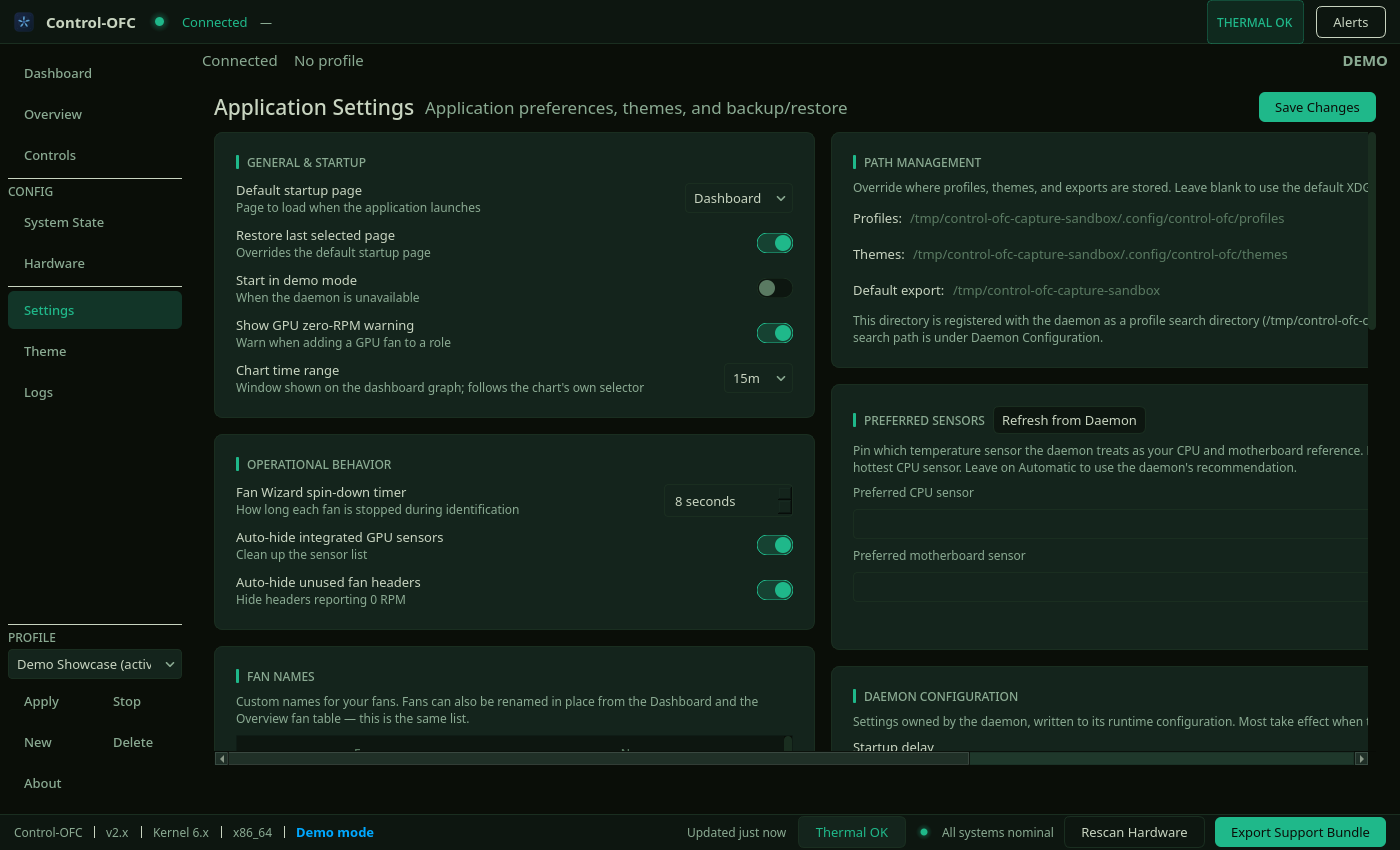
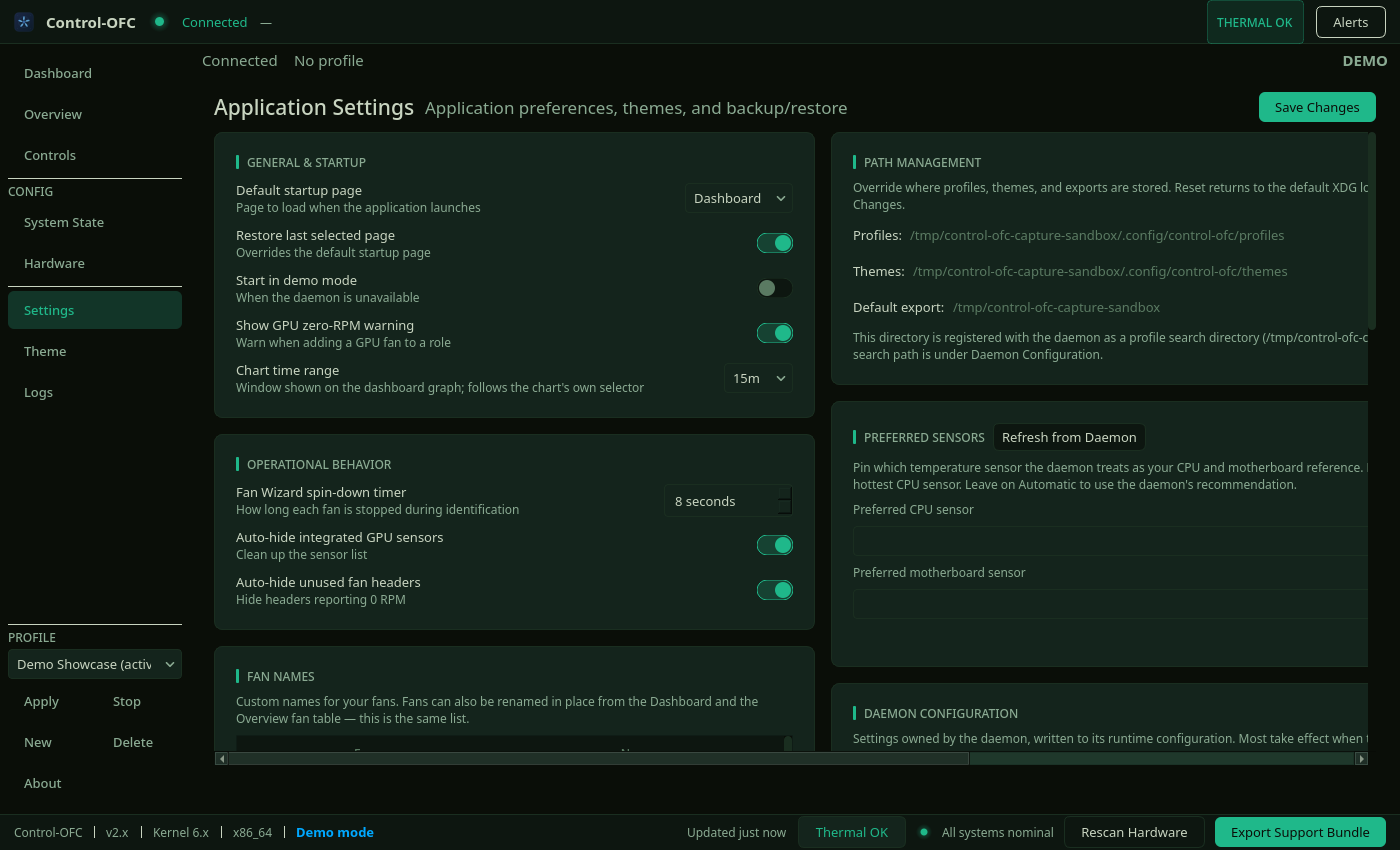
release: control-ofc-gui v4.1.0
The FFA/GSA fix batch. The trailers derive patch; the user chose a minor
version for this release, in both repos. Bumps pyproject.toml, the PKGBUILD
pkgver and the README release line, folds [Unreleased] into [4.1.0], says
"daemon ≥ 4.1.0" in docs/08 where it said "daemon > 4.0.0", and recaptures
the dashboard (sample-time chart) and settings screenshots.

diff --git a/docs/08_API_Integration_Contract.md b/docs/08_API_Integration_Contract.md
@@ -3389,7 +3389,7 @@ same id ever diverge, activation applies the **local** copy — not necessarily 
 - `PUT /profiles/{id}` — create-or-replace stored desired-state → **200 OK** (no hot-reload —
   re-activate to apply)
 - `DELETE /profiles/{id}` — `409 profile_in_use` if it is the active profile
-- **Reads are confined to the search directories (daemon > 4.0.0, FFA-a/FFA-b).** `GET /profiles`,
+- **Reads are confined to the search directories (daemon ≥ 4.1.0, FFA-a/FFA-b).** `GET /profiles`,
   `GET /profiles/{id}` and activation treat a profile file as **absent** (`404`, not listed) when it is
   a symlink, a FIFO or anything else but a regular file, or when its owner is not its directory's owner.
   They skip, with a daemon-side warning, a search directory whose real path is not the path registered
@@ -3402,7 +3402,7 @@ same id ever diverge, activation applies the **local** copy — not necessarily 
   (the store, the presets) are never skipped, so a profile found by id is never a user's same-id file read
   past a busy store: a request that cannot read them in time answers the retryable `500`. A listing that
   runs out of time in a user's directory answers the profiles found so far (`200`, logged).
-- **Store bounds (daemon > 4.0.0, FFA-j).** `POST`/`PUT` store the document compact. A document whose
+- **Store bounds (daemon ≥ 4.1.0, FFA-j).** `POST`/`PUT` store the document compact. A document whose
   stored form would exceed 4 MiB is `400 validation_error` (re-serialising can lengthen numbers, so this can
   fire for a body under the 4 MiB request limit); a **new** id once the store holds 256 profiles is
   `400 validation_error` (replacing an existing id still works), and so is a write that would leave the
@@ -3446,7 +3446,7 @@ same id ever diverge, activation applies the **local** copy — not necessarily 
     parsed, or a profile that fails validation (`error.details.field_violations`, as for
     `POST /profiles`); a retryable `500 internal_error` when the read, or resolving a
     `profile_path` whose directory is not a registered entry as written, did not finish in
-    time (daemon > 4.0.0). On any error the previously active profile keeps running.
+    time (daemon ≥ 4.1.0). On any error the previously active profile keeps running.
   - **Saving the new state is best-effort.** If writing `daemon_state.json` fails, the
     daemon logs a warning and still answers `200`: the profile is active now, but a
     restart brings back the previous one.
@@ -3809,9 +3809,9 @@ Two things distinguish the cooldown 409 from the single-flight 409, and a client
   (§ OpenFan firmware update).
 - 409 `session_full` (source: `"validation"`, retryable: false, daemon ≥ 2.56.2) — `POST /validation/session/event` or `/measurement` while the recording session already holds its cap of that kind (4096 events, 512 measurements). Nothing was appended; `details.limit` is the cap. A new session is the only way to record more (DEC-426, `DC-m`).
 - 409 `stale_fencing_token` (source: `"validation"`, retryable: false) — override renew/release (DEC-163) bearing a superseded `override_token`; a newer override has been issued for that control, so the stale holder cannot re-pin (fencing)
-- 500 `internal_error` (source: `"internal"`, retryable: true) — among other causes, a profile read on `GET /profiles`, `GET /profiles/{id}`, `POST /profile/activate` or `POST /config/profile-search-dirs` that did not finish within 2 s (daemon > 4.0.0, FFA-b)
+- 500 `internal_error` (source: `"internal"`, retryable: true) — among other causes, a profile read on `GET /profiles`, `GET /profiles/{id}`, `POST /profile/activate` or `POST /config/profile-search-dirs` that did not finish within 2 s (daemon ≥ 4.1.0, FFA-b)
 - 503 `hardware_unavailable` (source: `"hardware"`, retryable: true). With `details.reason:
-  "hwmon_controller_busy"` (daemon > 4.0.0, FFA-h): the motherboard fan controller stayed locked
+  "hwmon_controller_busy"` (daemon ≥ 4.1.0, FFA-h): the motherboard fan controller stayed locked
   for 2 s by a write that has not returned (DEC-455). Returned by `POST /hwmon/{id}/verify`,
   `/characterize`, `/discover-control-path`, `/stall-probe` — before anything is written or
   claimed — and `GET /diagnostics/preflight`; retry later. Requests that only read header facts
@@ -4215,8 +4215,8 @@ The profile **curve schema is v7** (GUI `PROFILE_SCHEMA_VERSION` / daemon `defau
     - any edit whose result would be an **empty** search path — `activate_profile` resolves against this list, so emptying it is an unrecoverable soft-lock reachable from an unprivileged call;
     - any edit whose result does not leave the daemon's **profile store of record** as the **first** entry. The store of record (DEC-160) is *defined* as the first search dir, and it is the write target for profile create and delete, so displacing it would silently redirect every profile write for the rest of the daemon's process life. Note this is a rule about **position**, not membership: `{"add": [store], "remove": [store]}` removes it from index 0 and re-appends it at the end, which leaves it present and displaced — and is refused. A client that wants to show why Remove is unavailable can apply the same rule locally (the GUI does).
   - **Peer-uid confined (daemon ≥ 2.9.0, DEC-205):** a non-root client may only `add` directories that exist and canonicalize to a path within its **own home directory** (resolved from the socket peer's `SO_PEERCRED` uid); root / CLI callers are exempt. An out-of-home dir, a nonexistent/unreadable dir, or a caller whose uid/home cannot be resolved is `400 validation_error`. Older daemons (< 2.9.0) accept any absolute dir. `remove` is confined the same way but by a predicate that does **not** require the directory to still exist: it accepts the path's raw form, falling back to its canonical form when that resolves. Both legs are needed. Raw, because a stale entry worth pruning is very often one that is already gone, so requiring existence would refuse exactly the entries this operation exists to clean up. Canonical, because daemons ≤ 4.0.0 validated the *canonical* form but persisted the *raw* string — so without it a directory added through a symlink (or under a `systemd-homed` layout where `pw_dir` and `$HOME` spell the home differently) is storable and permanently unremovable.
-  - **Stored by real path, deduplicated, bounded (daemon > 4.0.0, FFA-c).** An added directory is resolved once and stored as that real path (symlinks resolved) when it exists, else in lexical normal form; that same value is what confinement checks, and a refusal names the path as the caller sent it, never its real path. Every spelling of one directory (`/./`, `//`, a trailing `/`) is the same entry, so re-adding a variant changes nothing; a removal also matches an entry stored by its real path, when that real path is one the caller may remove. At most **32** entries, and at most **4** inside one non-root caller's home (an edit that would grow either past its limit is `400`; a longer list from an older daemon can still shrink), and **4096** bytes per path (`400`). Root (or any caller) removing an entry by the spelling it is stored under touches no filesystem, so a directory that stopped answering can always be removed. A search directory whose real path is not its registered path is skipped when profiles are read, so an entry an older daemon stored through a symlink stops resolving until it is added again — the GUI re-adds its own folder on every connect. Earlier daemons stored the raw string, so variants each added an entry and the list could grow until `runtime.toml` exceeded its read cap.
-  - A retryable `500 internal_error` when a directory named in the request did not answer within 2 s (daemon > 4.0.0, FFA-b). Paths a client names are resolved one at a time per uid, so after that a caller's further edits are refused the same way, at once, until its hung resolution returns; other users are unaffected. A home that cannot confine anything — `/`, or `/nonexistent` — is treated as unresolvable and fails closed, in both predicates.
+  - **Stored by real path, deduplicated, bounded (daemon ≥ 4.1.0, FFA-c).** An added directory is resolved once and stored as that real path (symlinks resolved) when it exists, else in lexical normal form; that same value is what confinement checks, and a refusal names the path as the caller sent it, never its real path. Every spelling of one directory (`/./`, `//`, a trailing `/`) is the same entry, so re-adding a variant changes nothing; a removal also matches an entry stored by its real path, when that real path is one the caller may remove. At most **32** entries, and at most **4** inside one non-root caller's home (an edit that would grow either past its limit is `400`; a longer list from an older daemon can still shrink), and **4096** bytes per path (`400`). Root (or any caller) removing an entry by the spelling it is stored under touches no filesystem, so a directory that stopped answering can always be removed. A search directory whose real path is not its registered path is skipped when profiles are read, so an entry an older daemon stored through a symlink stops resolving until it is added again — the GUI re-adds its own folder on every connect. Earlier daemons stored the raw string, so variants each added an entry and the list could grow until `runtime.toml` exceeded its read cap.
+  - A retryable `500 internal_error` when a directory named in the request did not answer within 2 s (daemon ≥ 4.1.0, FFA-b). Paths a client names are resolved one at a time per uid, so after that a caller's further edits are refused the same way, at once, until its hung resolution returns; other users are unaffected. A home that cannot confine anything — `/`, or `/nonexistent` — is treated as unresolvable and fails closed, in both predicates.
   - A persistence failure is `503 persistence_failed`; the daemon persists first and leaves in-memory state untouched on failure.
   - The GUI surfaces the daemon's message verbatim: the Settings ▸ profiles-directory picker prefixes it with `Failed to update daemon:`, and the Daemon Configuration card's search-dir editor reports it in its result line.
 - `POST /config/exit-floor` — `{"exit_floor_pct": 0..100}` (DEC-388, daemon ≥ 2.50.0; capability

diff --git a/README.md b/README.md
@@ -1,6 +1,6 @@
 # Control-OFC GUI
 
-**Latest release:** v4.0.0 — 2026-10-04. Pairs with `control-ofc-daemon` ≥ v3.0.0. Individual features gate on newer daemons and say so in the app when one is missing; [CHANGELOG.md](CHANGELOG.md) records which version introduced each.
+**Latest release:** v4.1.0 — 2026-10-07. Pairs with `control-ofc-daemon` ≥ v3.0.0. Individual features gate on newer daemons and say so in the app when one is missing; [CHANGELOG.md](CHANGELOG.md) records which version introduced each.
 
 Desktop fan control interface for Linux. Communicates with the [`control-ofc-daemon`](https://github.com/Plan-B-Development/control-ofc-daemon) service to monitor temperatures, manage fan speeds, and apply custom fan curves.
 

diff --git a/CHANGELOG.md b/CHANGELOG.md
@@ -2,6 +2,11 @@
 
 ## [Unreleased]
 
+## [4.1.0] — 2026-10-07
+
+**Pairs with `control-ofc-daemon` >= v3.0.0**, which the package still requires; control-ofc-daemon 4.1.0 is
+the matching release. Nothing is removed, and profiles, settings and themes load as before.
+
 ### Fixed
 
 - **A daemon that stops answering no longer sets off a burst of updates when it recovers.** While a poll
